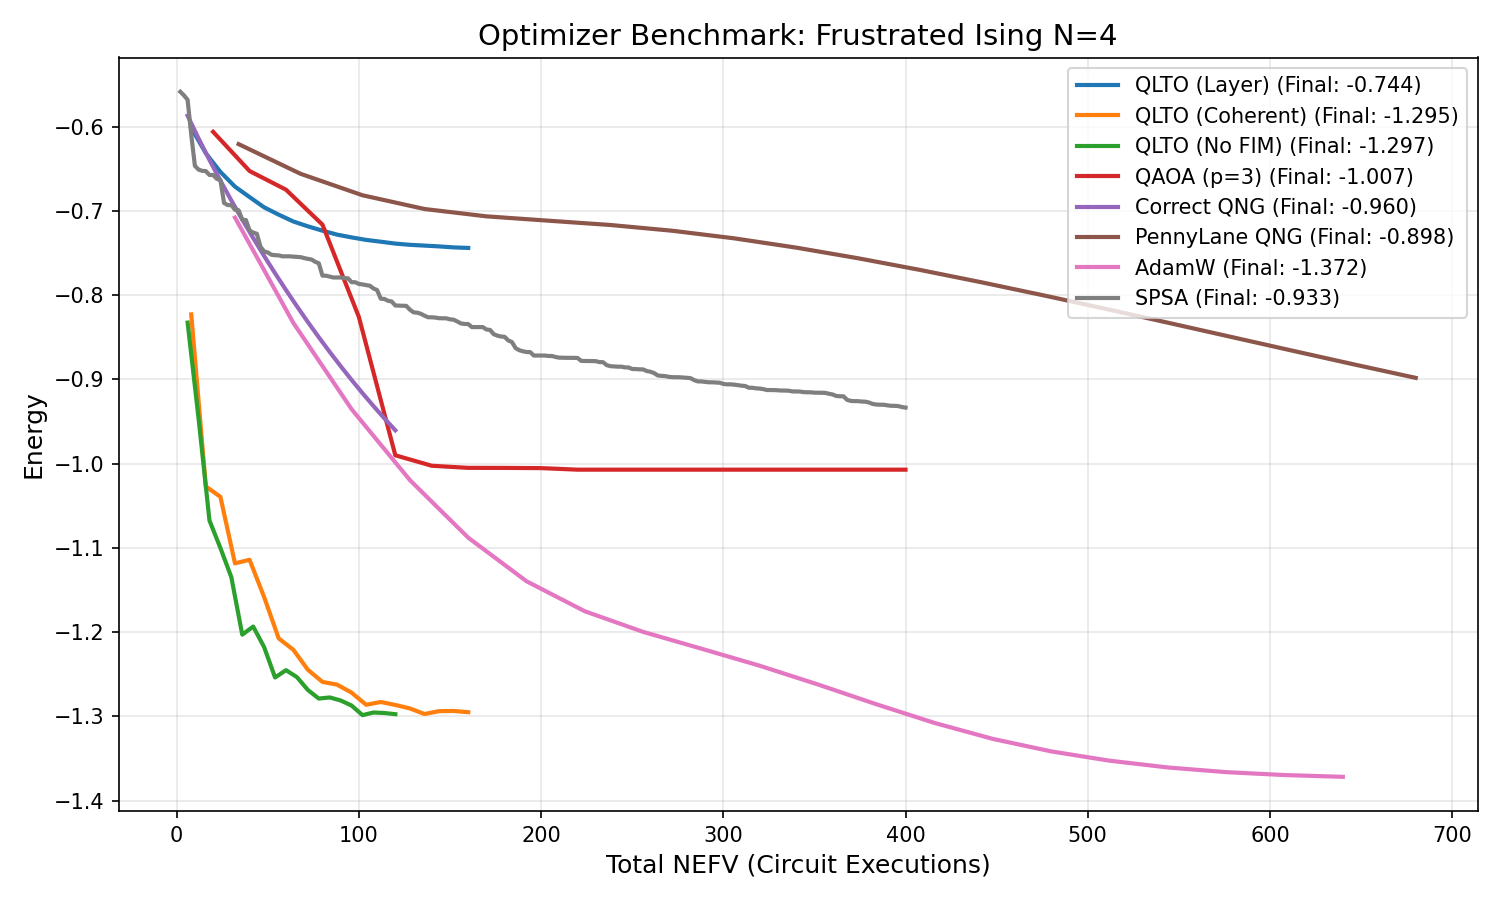
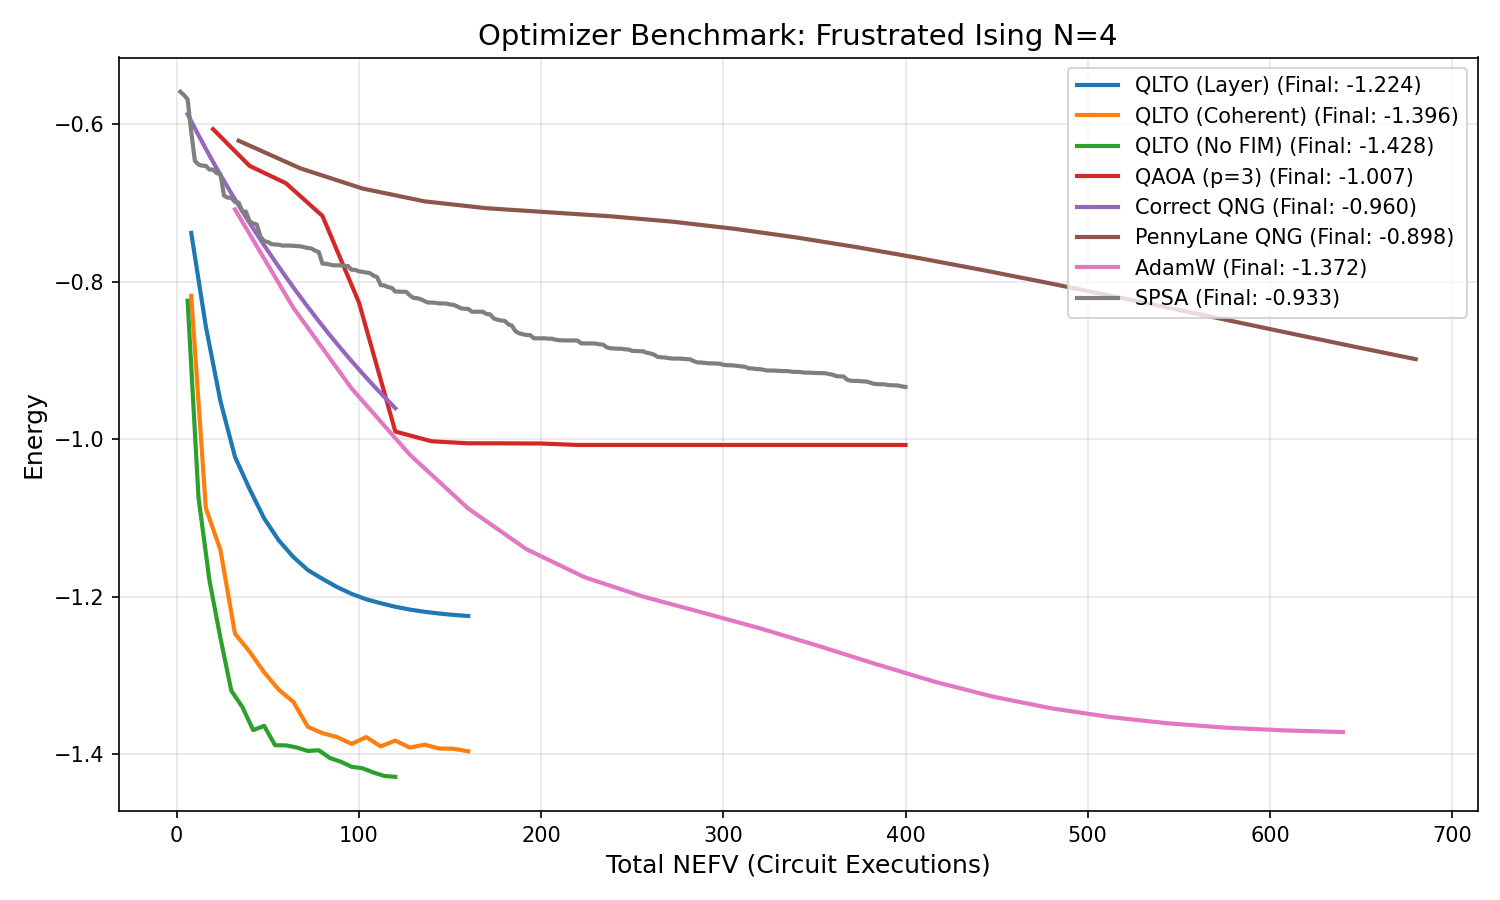
fix optimizer

diff --git a/Quantum_AI/QLTO/Application/nisq_v2.py b/Quantum_AI/QLTO/Application/nisq_v2.py
@@ -464,25 +464,30 @@ class RiemannianQLTO:
             beta = (1 - s) * np.pi * delta_t         # Mixing strength
             
             # --- Drift (Phase Kickback based on gradient) ---
-            # This encodes "which direction is downhill" into phases
-            # OPTIMIZATION: Use individual CRZ gates instead of grouped control
-            # This is shallower than drift_qc.control(1) which creates multi-controlled block
-            # Each walker is independent, so individual control is mathematically equivalent
+            # SIGNED-MAGNITUDE ENCODING:
+            # - MSB (highest bit): direction (sign of gradient)
+            # - Lower bits: step magnitude (|gradient|)
             for i in range(n_active):
                 g_ii = metric_local[i]
                 grad_i = grad_local[i]
                 ng_scale = np.clip(1.0 / (np.sqrt(g_ii) + 1e-6), 0.1, 5.0)
+                scaled_grad = grad_i * ng_scale
                 
                 for b in range(self.bits_per_param):
                     q_idx = i * self.bits_per_param + b
-                    drift_weight = (2.0 ** b) / (2.0 ** (self.bits_per_param - 1))
-                    angle = gamma * grad_i * ng_scale * drift_weight
+                    
+                    if b == self.bits_per_param - 1:
+                        # MSB: direction bit - biased by gradient SIGN
+                        direction_angle = np.sign(scaled_grad) * gamma * np.pi / 2
+                    else:
+                        # Lower bits: magnitude - biased by |gradient| with weight
+                        magnitude_weight = (2.0 ** b) / (2.0 ** (self.bits_per_param - 1))
+                        direction_angle = np.abs(scaled_grad) * gamma * magnitude_weight
                     
                     if coherence:
-                        # Individual controlled-RZ: only 2-qubit depth
-                        qc.crz(angle, qr_anc[0], qr_param[q_idx])
+                        qc.crz(direction_angle, qr_anc[0], qr_param[q_idx])
                     else:
-                        qc.rz(angle, qr_param[q_idx])
+                        qc.rz(direction_angle, qr_param[q_idx])
 
             # --- Mixer (Diffusion) ---
             # OPTIMIZATION: Use individual CRX gates instead of grouped control
@@ -623,47 +628,54 @@ class RiemannianQLTO:
     def _decode_result_with_ancilla(self, param_counts, center_params, radius, n_params):
         """
         Decode parameter values from measurement counts.
-        Uses weighted centroid over all outcomes.
-        
-        Args:
-            param_counts: Dict of {bitstring: count} for parameter register only
-            center_params: Current parameter values for this layer
-            radius: Search radius
-            n_params: Number of parameters in this layer
+        SIGNED-MAGNITUDE ENCODING:
+        - MSB (highest bit): direction (1=increase, 0=decrease)
+        - Lower bits: step magnitude (binary value)
         """
         accumulated_params = np.zeros(n_params)
         total_weight = 0.0
-        max_int = (2**self.bits_per_param) - 1
+        max_magnitude = 2 ** (self.bits_per_param - 1) if self.bits_per_param > 1 else 1
         
         for bitstr, count in param_counts.items():
             weight = count
             clean_str = bitstr.replace(" ", "")
             current_val = np.zeros(n_params)
             
-            # Handle case where bitstring might be shorter than expected
             expected_len = n_params * self.bits_per_param
             if len(clean_str) < expected_len:
                 clean_str = clean_str.zfill(expected_len)
             elif len(clean_str) > expected_len:
-                clean_str = clean_str[-expected_len:]  # Take rightmost bits
+                clean_str = clean_str[-expected_len:]
             
-            # Decode each parameter
-            rev_str = clean_str[::-1]  # Reverse for LSB-first
+            # SIGNED-MAGNITUDE DECODE
+            rev_str = clean_str[::-1]
             for i in range(n_params):
                 start = i * self.bits_per_param
                 end = start + self.bits_per_param
                 p_bits = rev_str[start:end] if end <= len(rev_str) else '0' * self.bits_per_param
                 
-                val_int = 0
-                for b_idx, bit in enumerate(p_bits):
-                    if bit == '1':
-                        val_int += 2**b_idx
+                if self.bits_per_param == 1:
+                    # Single bit: just direction
+                    direction = 1 if p_bits[0] == '1' else -1
+                    magnitude = 1.0
+                else:
+                    # MSB is sign, rest is magnitude
+                    sign_bit = p_bits[-1]  # MSB (last in LSB-first order)
+                    magnitude_bits = p_bits[:-1]
+                    
+                    direction = 1 if sign_bit == '1' else -1
+                    
+                    # Compute magnitude from lower bits
+                    magnitude = 0
+                    for b_idx, bit in enumerate(magnitude_bits):
+                        if bit == '1':
+                            magnitude += 2 ** b_idx
+                    
+                    # Normalize magnitude to [0, 1]
+                    magnitude = (magnitude + 1) / max_magnitude  # +1 so minimum step is not 0
                 
-                # Linear mapping: [0, max_int] -> [center-R, center+R]
-                norm = val_int / max_int if max_int > 0 else 0.5
-                p_min = center_params[i] - radius
-                p_max = center_params[i] + radius
-                real_val = p_min + (norm * (p_max - p_min))
+                # Apply signed step
+                real_val = center_params[i] + direction * magnitude * radius
                 current_val[i] = real_val
             
             accumulated_params += current_val * weight

diff --git a/Quantum_AI/QLTO/Application/benchmark.py b/Quantum_AI/QLTO/Application/benchmark.py
@@ -989,8 +989,8 @@ def run_benchmark(save=True):
 
 def run_benchmark_with_stats(n_trials=5):
     problems = [
-        # generate_frustrated_hamiltonian(4, seed=999),
-        get_maxcut_problem(4, seed=101),
+        generate_frustrated_hamiltonian(4, seed=999),
+        # get_maxcut_problem(4, seed=101),
         # get_maxcut_problem(6, seed=102),
         # get_h2_problem(),
         # get_lih_problem(),
@@ -1003,7 +1003,7 @@ def run_benchmark_with_stats(n_trials=5):
     optimizers_def = {
         'QLTO (Layer)': lambda a, h, backend: QLTO_Wrapper(a, h, k_step=1, layer=True, coherence=False, backend=backend),
         'QLTO (Coherent)': lambda a, h, backend: QLTO_Wrapper(a, h, k_step=10, layer=True, coherence=True, backend=backend),
-        'QLTO (Full Coherent)': lambda a, h, backend: FullyCoherentQLTO_Wrapper(a, h, n_iterations=5, k_steps_per_iter=2, backend=backend),
+        'QLTO (No FIM)': lambda a, h, backend=None: QLTO_Wrapper(a, h, k_step=20, bits_per_param=1, layer=True, fim_full=False, gradient_reuse=True, backend=backend, coherence=True, use_fim=False),
         'QAOA (p=3)': lambda a, h, backend: QAOA(a, h, n_qubits=a.num_qubits, p_layers=3, maxiter_per_step=20),
         'Correct QNG': lambda a, h, backend: CorrectQNG(a, h, lr=0.1),
         'AdamW': lambda a, h, backend: AdamW(a, h, lr=0.1),
@@ -1088,5 +1088,5 @@ def run_benchmark_with_stats(n_trials=5):
         print(f"  Saved plot with error bars.")
 
 if __name__ == "__main__":
-    run_benchmark()
-    # run_benchmark_with_stats()
+    # run_benchmark()
+    run_benchmark_with_stats()
